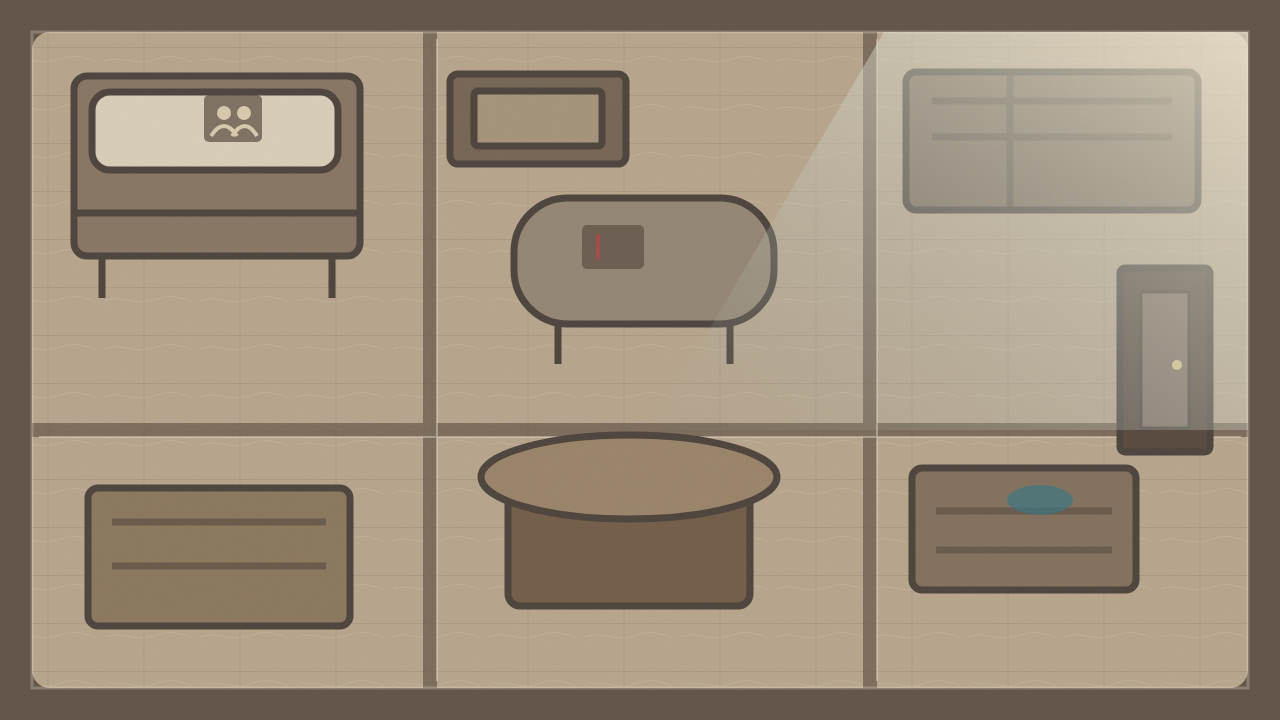
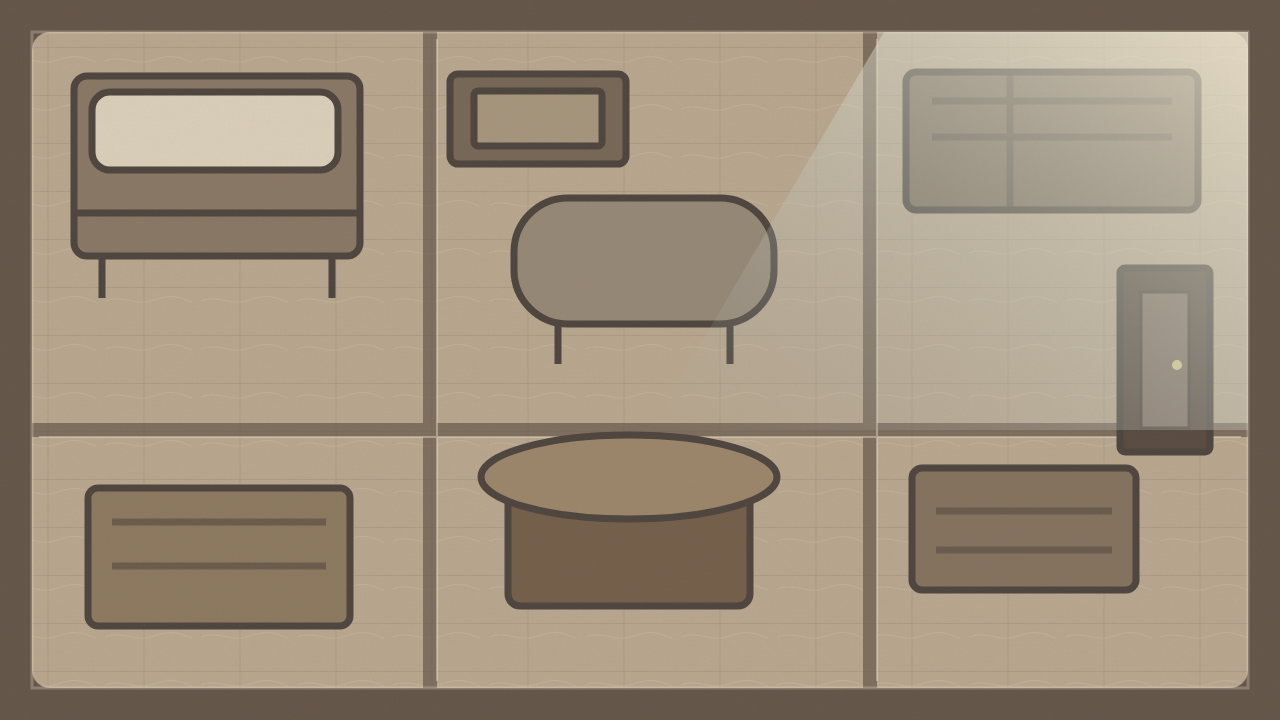
feat: add home interaction prop artwork

Changed region(s): [[0.1562, 0.1222, 0.2188, 0.2139], [0.4375, 0.3056, 0.5, 0.3972], [0.7812, 0.6722, 0.8438, 0.7333]]

diff --git a/src/game/assets/manifest.ts b/src/game/assets/manifest.ts
@@ -180,39 +180,67 @@ export const assetManifest = [
     preload: true,
   },
   {
+    key: 'prop.home.bedside_photo',
+    type: 'image',
+    url: 'assets/props/prop_home_bedside_photo_v01.png',
+    chapter: 'home',
+    preload: true,
+  },
+  {
+    key: 'prop.home.red_thread_journal',
+    type: 'image',
+    url: 'assets/props/prop_home_red_thread_journal_v01.png',
+    chapter: 'home',
+    preload: true,
+  },
+  {
+    key: 'prop.home.blue_key_bowl',
+    type: 'image',
+    url: 'assets/props/prop_home_blue_key_bowl_v01.png',
+    chapter: 'home',
+    preload: true,
+  },
+  {
+    key: 'prop.home.glasses_case',
+    type: 'image',
+    url: 'assets/props/prop_home_glasses_case_v01.png',
+    chapter: 'home',
+    preload: true,
+  },
+  {
     key: 'memory.rain.umbrella.illustration',
     type: 'image',
     url: 'assets/memories/memory_rain_umbrella_v01.webp',
     chapter: 'rain',
-    preload: true,
+    preload: false,
   },
   {
     key: 'memory.life.move.illustration',
     type: 'image',
     url: 'assets/memories/memory_life_move_v01.webp',
     chapter: 'life',
-    preload: true,
+    preload: false,
   },
   {
     key: 'memory.life.osmanthus.illustration',
     type: 'image',
     url: 'assets/memories/memory_life_osmanthus_v01.webp',
     chapter: 'life',
-    preload: true,
+    preload: false,
   },
   {
     key: 'memory.life.cassette.illustration',
     type: 'image',
     url: 'assets/memories/memory_life_cassette_v01.webp',
     chapter: 'life',
-    preload: true,
+    preload: false,
   },
   {
     key: 'memory.ending.hand.illustration',
     type: 'image',
     url: 'assets/memories/memory_ending_hand_v01.webp',
     chapter: 'ending',
-    preload: true,
+    preload: false,
   },
 ] as const satisfies readonly AssetManifestEntry[];
 

diff --git a/src/phaser/scenes/GameScene.ts b/src/phaser/scenes/GameScene.ts
@@ -16,6 +16,13 @@ interface EntityView {
   hover: boolean;
 }
 
+const homePropVisuals: Record<string, { key: string; size: number; labelOffset: number }> = {
+  'entity.home.bedside_photo': { key: 'prop.home.bedside_photo', size: 72, labelOffset: 42 },
+  'entity.home.journal': { key: 'prop.home.red_thread_journal', size: 70, labelOffset: 44 },
+  'entity.home.key_bowl': { key: 'prop.home.blue_key_bowl', size: 82, labelOffset: 42 },
+  'entity.home.glasses_case': { key: 'prop.home.glasses_case', size: 78, labelOffset: 38 },
+};
+
 export class GameScene extends Phaser.Scene {
   private readonly bridge: SceneBridge;
   private player!: Phaser.GameObjects.Container;
@@ -42,6 +49,7 @@ export class GameScene extends Phaser.Scene {
 
   preload(): void {
     for (const asset of assetManifest) {
+      if (!asset.preload) continue;
       if (asset.type === 'tilemap') this.load.tilemapTiledJSON(asset.key, asset.url);
       else if (asset.type === 'spritesheet') {
         this.load.spritesheet(asset.key, asset.url, asset.frameConfig);
@@ -443,6 +451,7 @@ export class GameScene extends Phaser.Scene {
     const color = entity.color ?? (entity.kind === 'exit' ? 0xeee7d8 : 0xd6c58e);
     const isXiulan = entity.id === 'entity.ending.xiulan';
     const isUmbrella = entity.id.includes('umbrella');
+    const propVisual = homePropVisuals[entity.id];
     const container = this.add.container(entity.x, entity.y);
 
     // Tiny resting dot that only becomes visible on hover; replaces the old big circle button.
@@ -455,16 +464,26 @@ export class GameScene extends Phaser.Scene {
           .setDepth(0)
       : isUmbrella
         ? this.add.image(0, 0, 'prop.red_umbrella.closed').setDisplaySize(58, 58).setDepth(0)
-        : null;
+        : propVisual
+          ? this.add
+              .image(0, 0, propVisual.key)
+              .setDisplaySize(propVisual.size, propVisual.size)
+              .setDepth(0)
+          : null;
 
     const label = this.add
-      .text(entity.x, entity.y + (isXiulan ? 24 : isUmbrella ? 32 : 38), entity.label, {
-        color: '#f7f3e8',
-        backgroundColor: '#2f2b28cc',
-        fontFamily: '"Noto Sans SC", "Microsoft YaHei", sans-serif',
-        fontSize: '15px',
-        padding: { x: 8, y: 4 },
-      })
+      .text(
+        entity.x,
+        entity.y + (propVisual?.labelOffset ?? (isXiulan ? 24 : isUmbrella ? 32 : 38)),
+        entity.label,
+        {
+          color: '#f7f3e8',
+          backgroundColor: '#2f2b28cc',
+          fontFamily: '"Noto Sans SC", "Microsoft YaHei", sans-serif',
+          fontSize: '15px',
+          padding: { x: 8, y: 4 },
+        },
+      )
       .setOrigin(0.5, 0)
       .setAlpha(0)
       .setDepth(20);

diff --git a/scripts/prepare_prop_asset.py b/scripts/prepare_prop_asset.py
@@ -1,0 +1,43 @@
+#!/usr/bin/env python3
+"""Crop and normalize a transparent prop onto a square game-ready canvas."""
+
+from __future__ import annotations
+
+import argparse
+from pathlib import Path
+
+from PIL import Image
+
+
+def parse_args() -> argparse.Namespace:
+    parser = argparse.ArgumentParser()
+    parser.add_argument("--input", required=True, type=Path)
+    parser.add_argument("--output", required=True, type=Path)
+    parser.add_argument("--size", type=int, default=128)
+    parser.add_argument("--padding", type=int, default=4)
+    return parser.parse_args()
+
+
+def main() -> None:
+    args = parse_args()
+    source = Image.open(args.input).convert("RGBA")
+    alpha_bounds = source.getchannel("A").getbbox()
+    if alpha_bounds is None:
+        raise ValueError(f"No visible pixels in {args.input}")
+
+    cropped = source.crop(alpha_bounds)
+    available = args.size - args.padding * 2
+    if available <= 0:
+        raise ValueError("Padding leaves no room for the prop")
+    cropped.thumbnail((available, available), Image.Resampling.LANCZOS)
+
+    canvas = Image.new("RGBA", (args.size, args.size), (0, 0, 0, 0))
+    position = ((args.size - cropped.width) // 2, (args.size - cropped.height) // 2)
+    canvas.alpha_composite(cropped, position)
+    args.output.parent.mkdir(parents=True, exist_ok=True)
+    canvas.save(args.output, optimize=True)
+    print(f"Wrote {args.output} ({args.size}x{args.size})")
+
+
+if __name__ == "__main__":
+    main()

diff --git a/docs/ASSET_REGISTRY.md b/docs/ASSET_REGISTRY.md
@@ -23,6 +23,10 @@
 | character.xiulan_old.idle.right | 项目团队 | assets-source/art/characters/character_xiulan_old_idle_right_v01_chromakey.png | assets-source/art/characters/frames/character_xiulan_old_idle_right_v01/01.png | 项目定制生成；OpenAI ImageGen；无第三方素材 | review | Codex 资产预览 | 2026-06-22 | 64×96；底部中心锚点；短发、旧绿开衫与侧向身份锚点；作为 reach_hand 第一帧来源 |
 | character.xiulan_old.reach_hand.right | 项目团队 | assets-source/art/characters/character_xiulan_old_reach_hand_right_v01_chromakey.png | public/assets/characters/character_xiulan_old_reach_hand_right_v01_8x64x96.png | 项目定制生成；OpenAI ImageGen；无第三方素材 | review | Codex Browser 与 Playwright 验收 | 2026-06-22 | 8×64×96；8 FPS 单次播放；前 3 帧停下等待，末帧开放掌心；减少动态直接显示末帧 |
 | prop.red_umbrella.closed | 项目团队 | assets-source/art/props/prop_red_umbrella_closed_v01.svg | public/assets/props/prop_red_umbrella_closed_v01.png | 项目原创 SVG；无第三方素材 | review | Codex 浏览器验收 | 2026-06-22 | 锚点红、木弯柄、深色补丁与缝线；SVG 原稿经 Chromium 导出透明 PNG，所有雨站红伞实体共用 |
+| prop.home.bedside_photo | 项目团队 | assets-source/art/props/prop_home_bedside_photo_v01_chromakey.png | public/assets/props/prop_home_bedside_photo_v01.png | 项目定制生成；OpenAI ImageGen；无第三方素材 | review | Codex 透明边缘与浏览器验收 | 2026-06-23 | 128×128；旧木框、老年夫妻与红伞边缘；独立实体素材 |
+| prop.home.red_thread_journal | 项目团队 | assets-source/art/props/prop_home_red_thread_journal_v01_chromakey.png | public/assets/props/prop_home_red_thread_journal_v01.png | 项目定制生成；OpenAI ImageGen；无第三方素材 | review | Codex 透明边缘与浏览器验收 | 2026-06-23 | 128×128；米色布封面、线装边与红线书签；独立拾取素材 |
+| prop.home.blue_key_bowl | 项目团队 | assets-source/art/props/prop_home_blue_key_bowl_v01_chromakey.png | public/assets/props/prop_home_blue_key_bowl_v01.png | 项目定制生成；OpenAI ImageGen；无第三方素材 | review | Codex 透明边缘与浏览器验收 | 2026-06-23 | 128×128；低饱和蓝碗、两道金色修补线与两把旧钥匙；独立拾取素材 |
+| prop.home.glasses_case | 项目团队 | assets-source/art/props/prop_home_glasses_case_v01_chromakey.png | public/assets/props/prop_home_glasses_case_v01.png | 项目定制生成；OpenAI ImageGen；无第三方素材 | review | Codex 透明边缘与浏览器验收 | 2026-06-23 | 128×128；旧棕布硬盒与红胶布角标；不显示眼镜；独立拾取素材 |
 | memory.rain.umbrella.illustration | 项目团队 | assets-source/art/memories/memory_rain_umbrella_v01.png | public/assets/memories/memory_rain_umbrella_v01.webp | 项目定制生成；OpenAI ImageGen；无第三方素材 | review | Codex 浏览器验收 | 2026-06-22 | 1152×768 WebP；雨站初遇对白期间显示；红伞为唯一高辨识暖色 |
 | memory.life.move.illustration | 项目团队 | assets-source/art/memories/memory_life_move_v01.png | public/assets/memories/memory_life_move_v01.webp | 项目定制生成；OpenAI ImageGen；无第三方素材 | review | Codex 浏览器验收 | 2026-06-22 | 1152×768 WebP；木梳归位后显示；纸箱、未装床架和背景红伞与脚本一致 |
 | memory.life.osmanthus.illustration | 项目团队 | assets-source/art/memories/memory_life_osmanthus_v01.png | public/assets/memories/memory_life_osmanthus_v01.webp | 项目定制生成；OpenAI ImageGen；无第三方素材 | review | Codex 浏览器验收 | 2026-06-22 | 1152×768 WebP；搪瓷杯归位后显示；桂花、泥土与杯子构成冗余线索 |
@@ -81,6 +85,15 @@
 - 生成限制：无可读文字、无现代物件、无额外前景人物、无亲吻或戏剧化姿态、无疾病或诊断隐喻。
 - 运行时处理：高分辨率 PNG 原稿归档于 `assets-source`，通过 `scripts/prepare_memory_illustration.py` 导出 1152×768 WebP。
 - 当前结论：内容、对白、裁切和叙事脚本一致，浏览器控制台无错误；待低扰动转场检查后决定是否升为 `approved`。
+
+### prop.home.*
+
+- 生成方式：内置 OpenAI ImageGen；`stylized-concept`；以 `environment_home_v01.png` 作为低饱和色板、粗轮廓和纸张质感参考。
+- 生成目标：把床边合影、红线日记、蓝色钥匙碗和眼镜盒从环境背景拆为四个独立、可拾取或可检查的场景物件。
+- 稳定特征：合影保留老年夫妻与红伞边缘；日记保留米色布封面与红线；蓝碗保留圆形、两道金色修补线和旧钥匙；眼镜盒保留胶囊轮廓与红胶布角标。
+- 生成限制：单一完整物件、无文字、无场景、无投影、无水印、纯 `#00ff00` 色键背景，不使用发光或 UI 按钮构图。
+- 运行时处理：`remove_chroma_key.py` 生成透明原稿；`scripts/prepare_prop_asset.py` 裁切并归一化到 128×128 透明画布。Phaser 通过 manifest key 与 Tiled 实体 ID 绑定，拾取后随实体隐藏。
+- 当前结论：透明边缘、实际场景比例、HUD/角色遮挡和减少动态效果悬停截图通过 Codex 与 Playwright 检查；外部美术审核前保持 `review`。
 
 ### memory.life.move.illustration
 

diff --git a/docs/ART_BIBLE.md b/docs/ART_BIBLE.md
@@ -106,6 +106,8 @@
 
 当前环境候选以 1280×720 原创 SVG 保存于 `assets-source/art/environments/`，通过 `npm run assets:render:environments` 导出运行时 PNG。背景只承担表现，出生点、交互对象和稳定 ID 仍由 Tiled JSON 对象层提供。
 
+清晨住宅中的床边合影、红线日记、蓝色钥匙碗和眼镜盒使用独立透明 PNG，不烘焙进环境背景；运行时由 Tiled 稳定 ID 定位，拾取后随实体视图一起隐藏。
+
 ## 5. 角色规格
 
 ### 5.1 尺寸与锚点

diff --git a/docs/TECHNICAL_DESIGN.md b/docs/TECHNICAL_DESIGN.md
@@ -480,7 +480,7 @@ interface AssetManifestEntry {
 }
 ~~~
 
-玩法代码引用 key，例如 character.xu_old.walk.down，不引用文件路径。精灵条带的帧尺寸由 manifest 的 `frameConfig` 提供，Scene 不散落文件名或裁切参数。
+玩法代码引用 key，例如 character.xu_old.walk.down，不引用文件路径。精灵条带的帧尺寸由 manifest 的 `frameConfig` 提供，Scene 不散落文件名或裁切参数。`preload: false` 的 DOM 插图不进入 Phaser 启动加载队列，由对应面板首次显示时按需加载，避免重复请求和延长首屏等待。
 
 观察动作由已映射的 `observe` 输入选择表现层动画，不写入领域状态，也不参与谜题答案判断。交互物不随观察键统一发光或缩放，而以场景轮廓、材质及按需悬停标签区分。角色移动时行走优先；对话或 DOM 模态层打开时不播放观察动画。减少动态效果下使用静态注意姿态替代 6 FPS 循环，并取消交互小点的缩放动画。
 